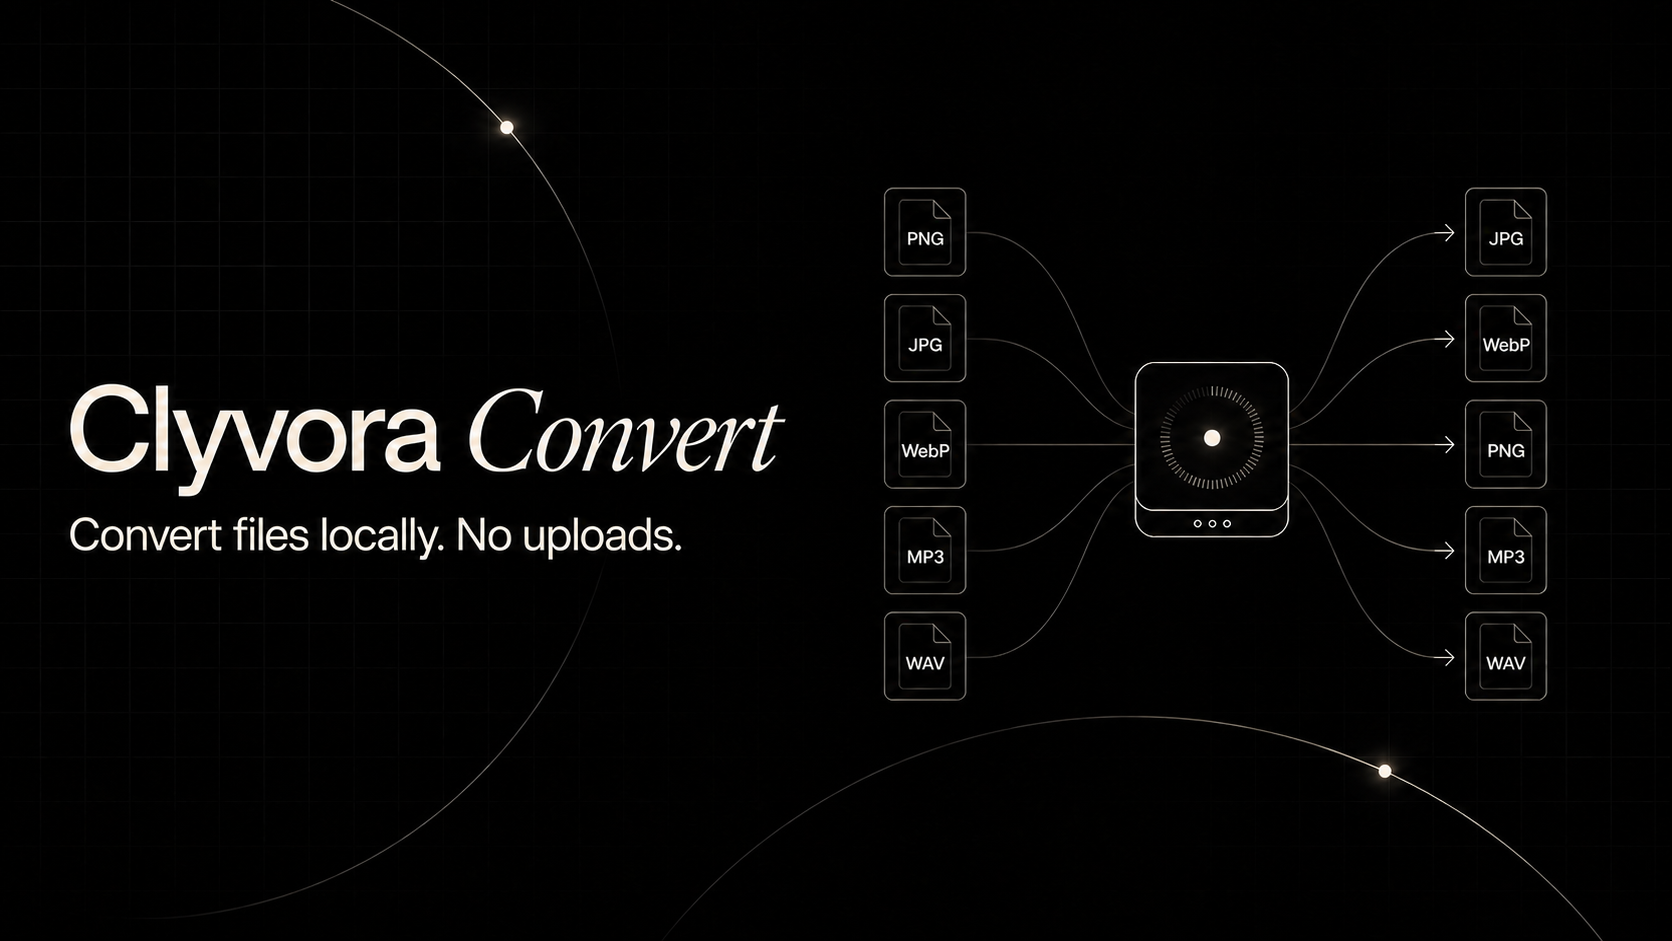
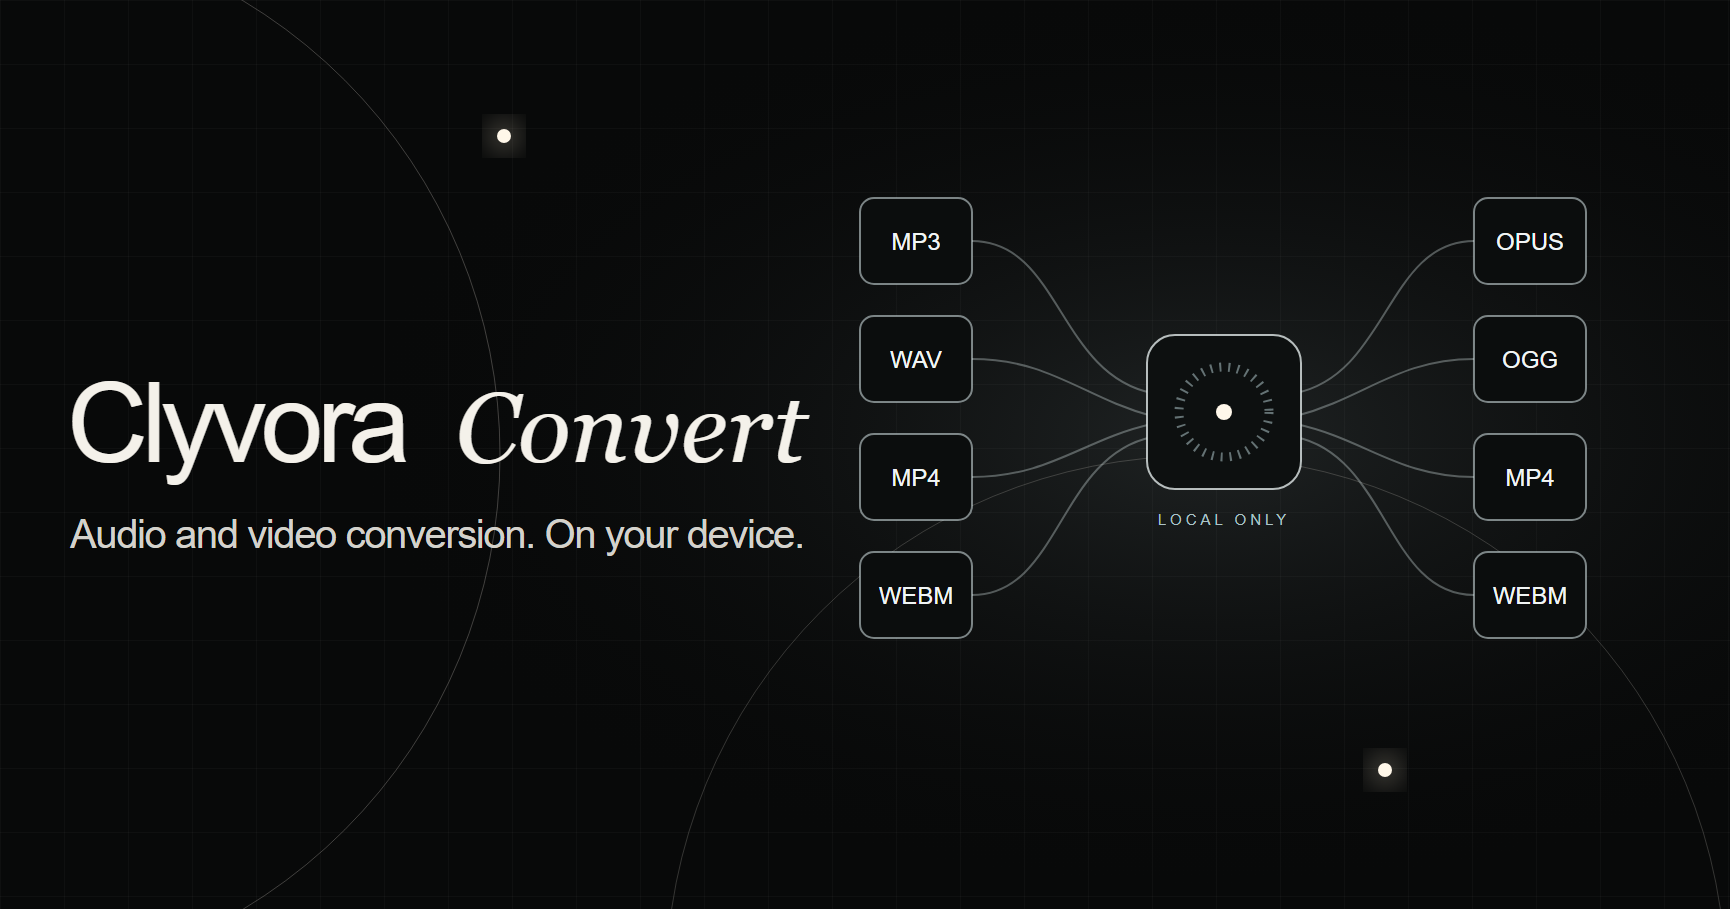
updaaaaaaaaaaaaaate

diff --git a/index.html b/index.html
@@ -5,6 +5,7 @@
     <meta name="viewport" content="width=device-width, initial-scale=1.0" />
     <meta name="description" content="Convert MP3, WAV, OGG, Opus, MP4, and WebM files privately in your browser. No media uploads or conversion server." />
     <meta name="author" content="Clyvora" />
+    <meta name="application-name" content="Clyvora Convert" />
     <meta name="robots" content="index, follow, max-image-preview:large, max-snippet:-1" />
     <meta name="theme-color" content="#090b0a" />
     <link rel="canonical" href="https://www.convert.clyvora.tech/" />
@@ -17,10 +18,14 @@
     <meta property="og:title" content="Private Audio &amp; Video Converter | Clyvora Convert" />
     <meta property="og:description" content="Convert audio and video privately in your browser." />
     <meta property="og:image" content="https://www.convert.clyvora.tech/clyvora-convert-card.png" />
+    <meta property="og:image:width" content="1730" />
+    <meta property="og:image:height" content="909" />
+    <meta property="og:image:alt" content="Clyvora Convert routes local audio and video formats through a private on-device converter." />
     <meta name="twitter:card" content="summary_large_image" />
     <meta name="twitter:title" content="Private Audio &amp; Video Converter | Clyvora Convert" />
     <meta name="twitter:description" content="Convert audio and video privately in your browser." />
     <meta name="twitter:image" content="https://www.convert.clyvora.tech/clyvora-convert-card.png" />
+    <meta name="twitter:image:alt" content="Clyvora Convert audio and video conversion diagram" />
     <script type="application/ld+json">
       {
         "@context": "https://schema.org",

diff --git a/src/App.css b/src/App.css
@@ -27,7 +27,7 @@ button:disabled { cursor: not-allowed; opacity: .45; }
   border-bottom: 1px solid var(--line);
 }
 .brand { display: inline-flex; padding: 8px; align-items: center; gap: 10px; border: 0; background: transparent; cursor: pointer; font-size: 15px; }
-.brand-mark { display: grid; width: 34px; height: 34px; place-items: center; border-radius: 10px; color: var(--accent-ink); background: var(--accent); font-weight: 800; }
+.brand img { display: block; width: 34px; height: 34px; object-fit: contain; }
 .brand strong { font-weight: 650; }
 .local-pill, .eyebrow { color: var(--muted); font: 11px/1.2 'DM Mono', ui-monospace, monospace; letter-spacing: .08em; text-transform: uppercase; }
 .local-pill { padding: 8px 11px; border: 1px solid var(--line); border-radius: 999px; }

diff --git a/src/App.tsx b/src/App.tsx
@@ -272,7 +272,7 @@ export default function App() {
   return <main>
     <header className="site-header">
       <button className="brand" type="button" onClick={reset} aria-label="Clyvora Convert home">
-        <span className="brand-mark" aria-hidden="true">C</span>
+        <img src="/favicon.png" alt="" width="34" height="34" decoding="async" />
         <span>Clyvora <strong>Convert</strong></span>
       </button>
       <span className="local-pill">Local processing</span>

diff --git a/README.md b/README.md
@@ -4,6 +4,8 @@
 
 Clyvora Convert is the focused local audio/video member of the Clyvora product family. It does not accept images or URLs and has no media-upload backend.
 
+![Clyvora Convert social preview](public/clyvora-convert-card.png)
+
 ## Supported conversions
 
 | Input | Output |
